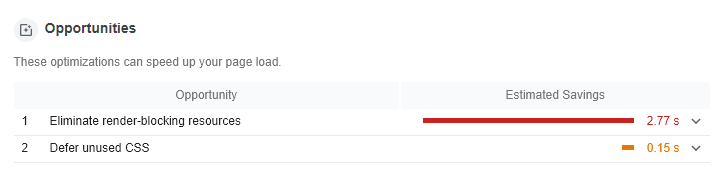
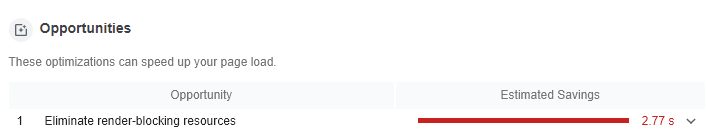
Update TCP slow-start and Lighthouse opportunities

diff --git a/src/site/content/en/blog/tools-for-extracting-critical-css/index.md b/src/site/content/en/blog/tools-for-extracting-critical-css/index.md
@@ -46,7 +46,7 @@ Improving render times can make a huge difference in [perceived performance](htt
   </figcaption>
 </figure>
 
-If you have poor [First Contentful Paint](https://web.dev/first-contentful-paint/) (FCP) and see "Eliminate render-blocking resource" or “Defer unused CSS” as opportunities in Lighthouse audits, it’s a good idea to give critical CSS a go.
+If you have poor [First Contentful Paint](https://web.dev/first-contentful-paint/) (FCP) and see "Eliminate render-blocking resource" opportunity in Lighthouse audits it’s a good idea to give critical CSS a go.
 
 <img class="w-screenshot" src="./lighthouse-audit.png" alt="Lighthouse audit with 'Eliminate render-blocking resource' or 'Defer unused CSS' opportunities">
 
@@ -54,7 +54,11 @@ If you have poor [First Contentful Paint](https://web.dev/first-contentful-paint
 Keep in mind that if you inline a large amount of CSS, it delays the transmission of the rest of the HTML document. If everything is prioritized then nothing is. Inlining also has some downsides in that it prevents the browser from caching the CSS for reuse on subsequent page loads, so it’s best to use it sparingly.
 {% endAside %}
 
-To get the best results, aim to keep your HTML file, including inlined CSS, under **14 KB** (compressed). Due to the [slow start of TCP protocol](https://calendar.perfplanet.com/2018/tcp-slow-start/), approximately 14 KB is the maximum that can be transferred in the initial roundtrip, before browser needs to make another network request. 
+To minimize the number of roundtrips to first render, aim to keep above-the-fold content under **14 KB** (compressed).
+
+{% Aside 'note' %}
+New [TCP](https://hpbn.co/building-blocks-of-tcp/) connections cannot immediately use the full available bandwidth between the client and the server, they all go through [slow-start](https://hpbn.co/building-blocks-of-tcp/#slow-start) to estimate the connection capacity. In this process, the server starts the transfer with a small amount of data and if it reaches the client in perfect condition, doubles the amount in the next roundtrip. For most servers, 10 packets or approximately 14 KB is the maximum that can be transferred in the first roundtrip.
+{% endAside %}
 
 The performance impact you can achieve with this technique depends on the type of your website. Generally speaking, the more CSS a site has, the greater the possible impact of inlined CSS.
 
